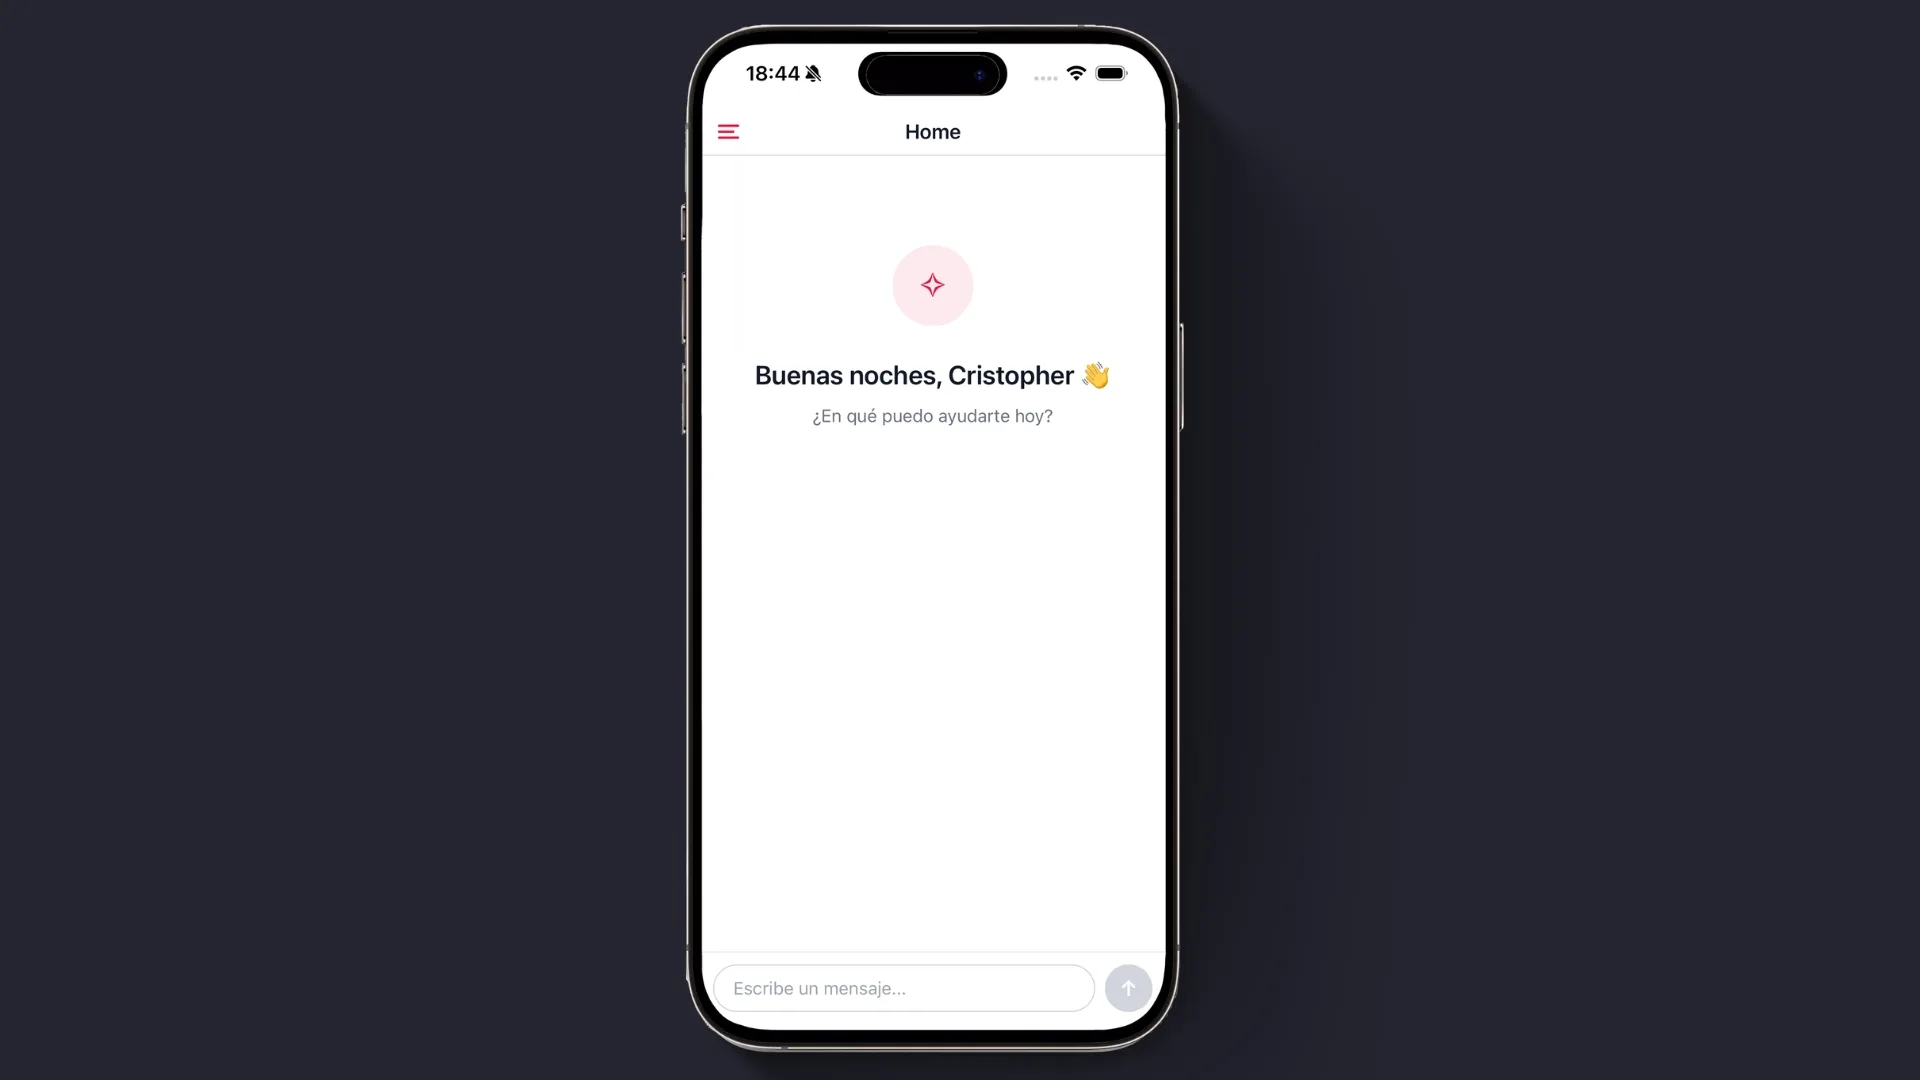
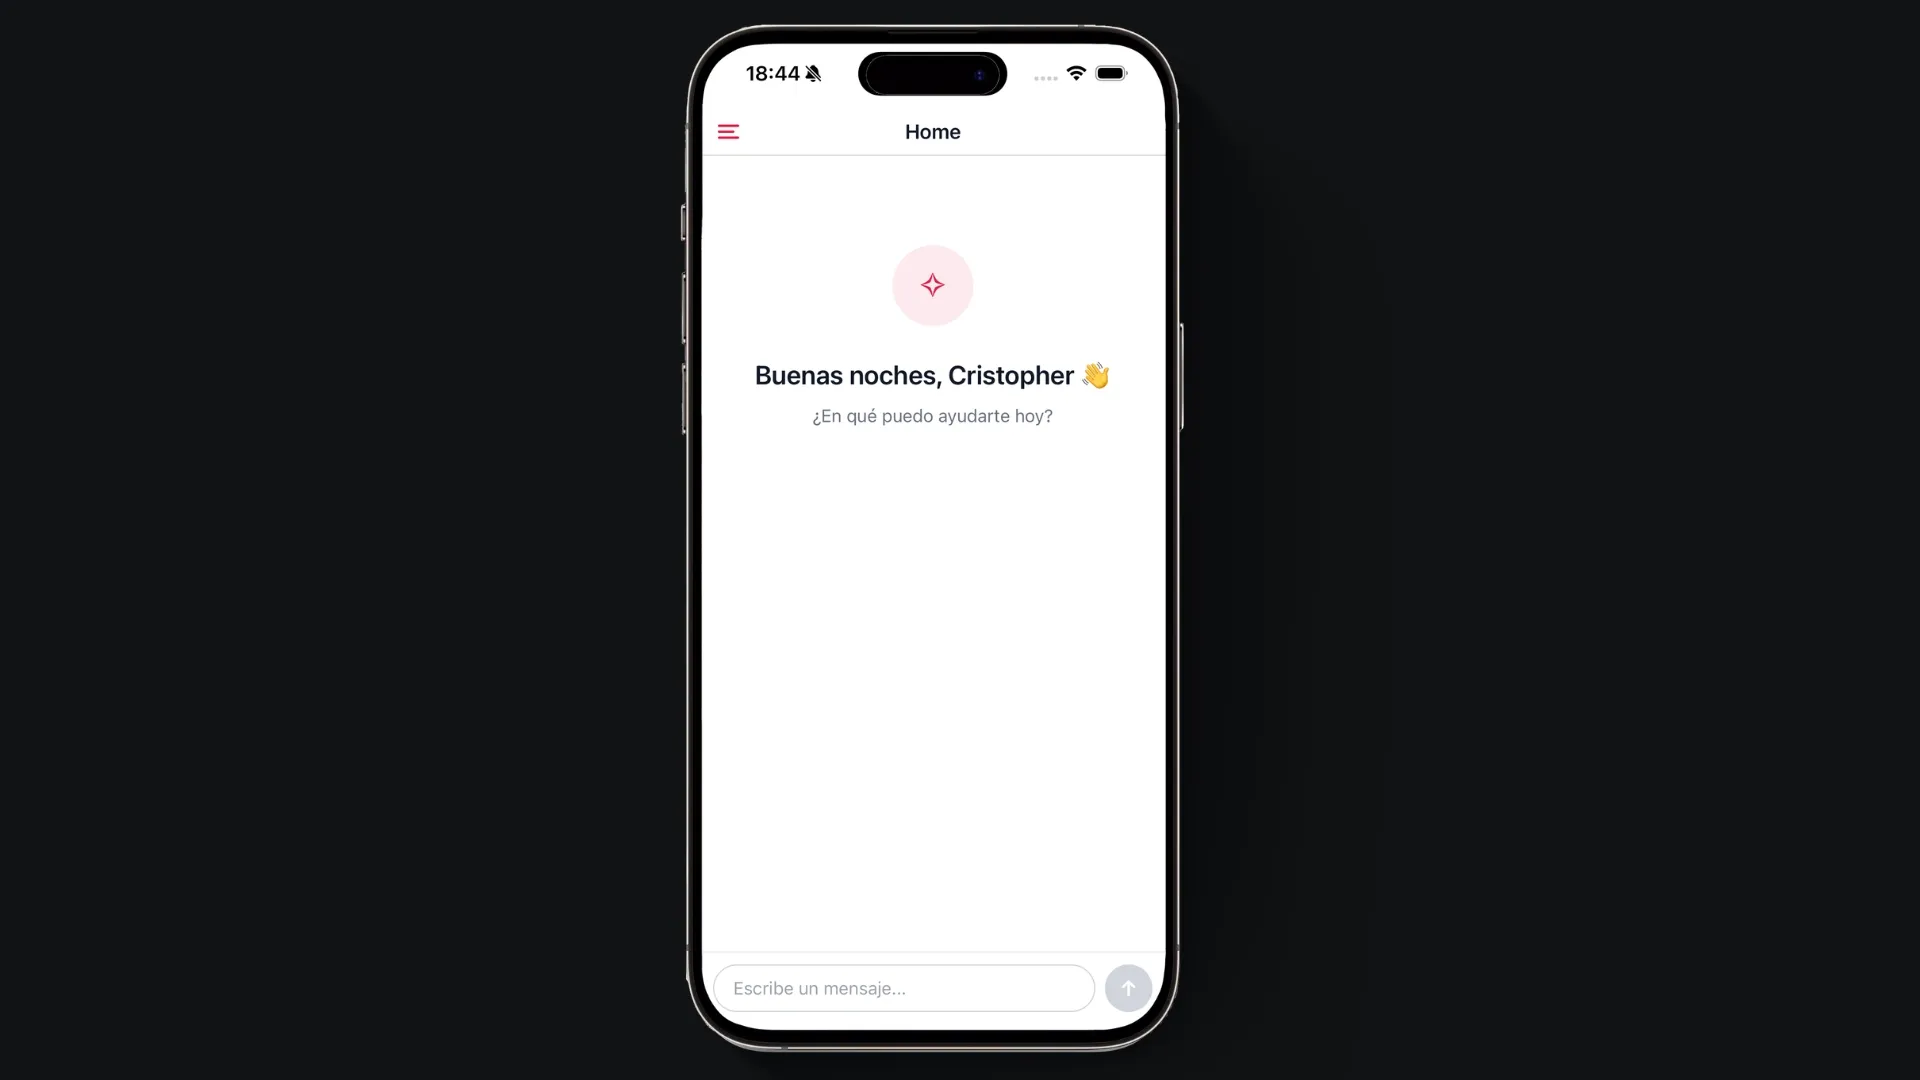
nuevas imágenes de proyectos, sin marco y etiqueta CAT

diff --git a/src/i18n/en.ts b/src/i18n/en.ts
@@ -116,7 +116,7 @@ export default {
         outcome: 'Final grade: 9/10. Final specialization project, accompanied by a paper documenting the design, the evolution of the agent and its limitations.',
         repoHref: 'https://github.com/cristoge/TIC_project',
         demoHref: '',
-        image: '/rag.webp',
+        image: '/rag2.webp',
       },
       {
         slug: 'bikeshare',
@@ -134,7 +134,7 @@ export default {
         outcome: 'Final grade: 9.84/10. Final project of the programme, delivered with a technical report and user manual.',
         repoHref: 'https://github.com/cristoge/bikeshare',
         demoHref: '',
-        image: '/bikeshare.webp',
+        image: '/bike2.webp',
       },
     ],
   },

diff --git a/src/i18n/es.ts b/src/i18n/es.ts
@@ -116,7 +116,7 @@ export default {
         outcome: 'Nota final: 9/10. Trabajo de fin de especialización acompañado de un paper que documenta el diseño, la evolución del agente y sus limitaciones.',
         repoHref: 'https://github.com/cristoge/TIC_project',
         demoHref: '',
-        image: '/rag.webp',
+        image: '/rag2.webp',
       },
       {
         slug: 'bikeshare',
@@ -134,7 +134,7 @@ export default {
         outcome: 'Nota final: 9,84/10. Proyecto final del ciclo, entregado con memoria técnica y manual de usuario.',
         repoHref: 'https://github.com/cristoge/bikeshare',
         demoHref: '',
-        image: '/bikeshare.webp',
+        image: '/bike2.webp',
       },
     ],
   },

diff --git a/src/i18n/ca.ts b/src/i18n/ca.ts
@@ -116,7 +116,7 @@ export default {
         outcome: "Nota final: 9/10. Treball de final d'especialització acompanyat d'un paper que documenta el disseny, l'evolució de l'agent i les seves limitacions.",
         repoHref: 'https://github.com/cristoge/TIC_project',
         demoHref: '',
-        image: '/rag.webp',
+        image: '/rag2.webp',
       },
       {
         slug: 'bikeshare',
@@ -134,7 +134,7 @@ export default {
         outcome: "Nota final: 9,84/10. Projecte final del cicle, lliurat amb memòria tècnica i manual d'usuari.",
         repoHref: 'https://github.com/cristoge/bikeshare',
         demoHref: '',
-        image: '/bikeshare.webp',
+        image: '/bike2.webp',
       },
     ],
   },

diff --git a/src/i18n/utils.ts b/src/i18n/utils.ts
@@ -9,7 +9,7 @@ export type Lang = keyof typeof dictionaries;
 export const languages: Lang[] = ['ca', 'es', 'en'];
 
 export const languageLabels: Record<Lang, string> = {
-  ca: 'CA',
+  ca: 'CAT',
   es: 'ES',
   en: 'EN',
 };
